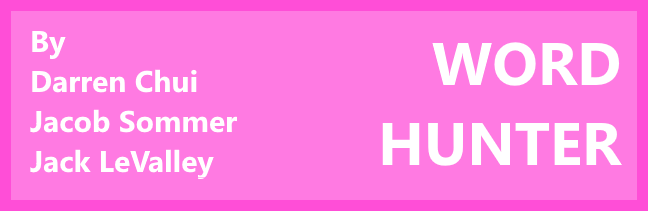
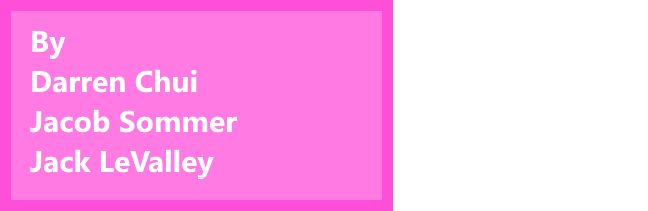
fix up title thing

diff --git a/TitleMenu.java b/TitleMenu.java
@@ -6,6 +6,7 @@ public class TitleMenu extends Actor
     boolean selected = false;
     int mX = 0;
     int mY = 0;
+    
     public void act()
     {
         MouseInfo mouse = Greenfoot.getMouseInfo();
@@ -21,8 +22,8 @@ public class TitleMenu extends Actor
     {
         if(mX>=getX()-img.getWidth()/2 && mX<=getX()+img.getWidth()/2 && mY>=getY()-img.getHeight()/2 && mY<=getY()+img.getHeight()/2)
         {
-            if(getX()<350) setLocation(getX()+5,getY());
+            if(getX()<325) setLocation(getX()+10,getY());
         }
-        else if(getX()>-20) setLocation(getX()-15,getY());
+        else if(getX()>-550) setLocation(getX()-10,getY());
     }    
 }

diff --git a/StartScreen.java b/StartScreen.java
@@ -16,7 +16,7 @@ public class StartScreen
     QUIT qUIT = new QUIT();
     addObject(qUIT, 593, 704);
     TitleMenu title = new TitleMenu();
-    addObject(title, 200, 200);
+    addObject(title, -550, 200);
     
     // Load native libraries for text to speech and json parsing
     NativeLoader loader = new NativeLoader();
